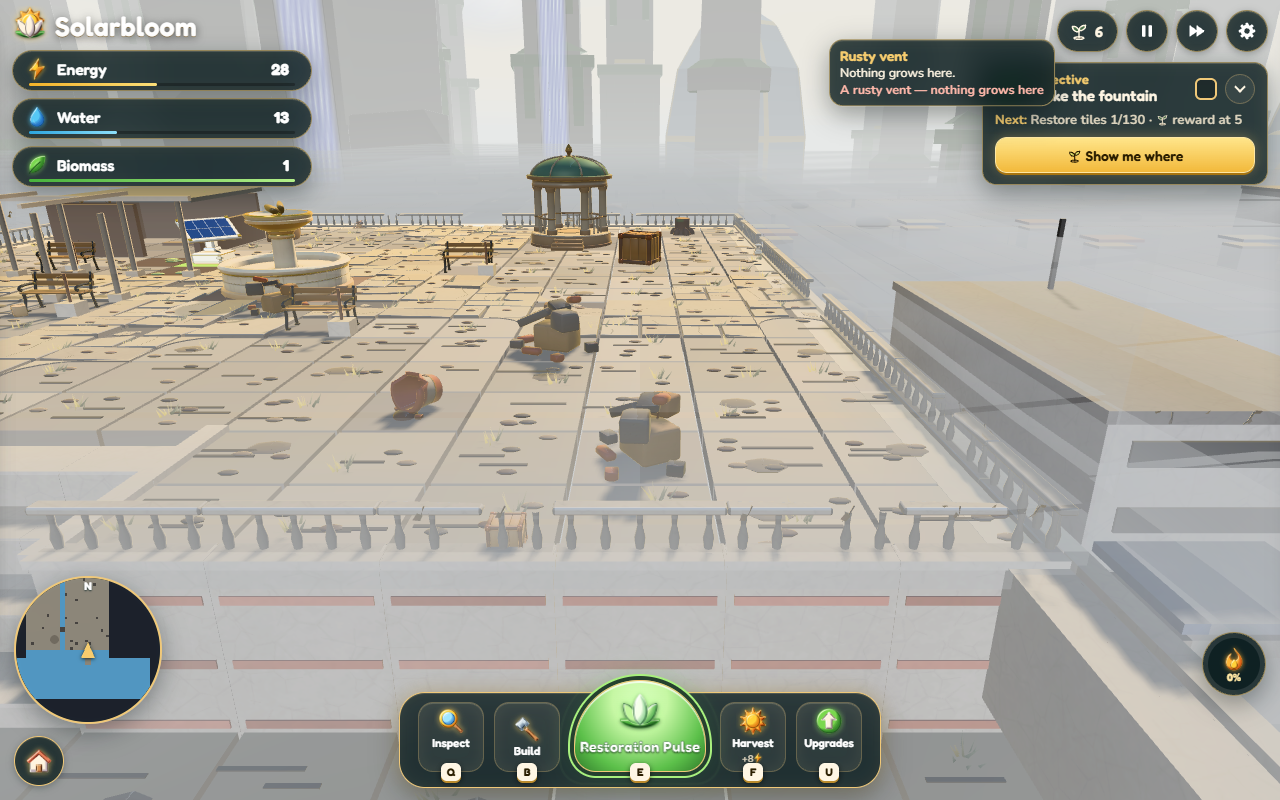
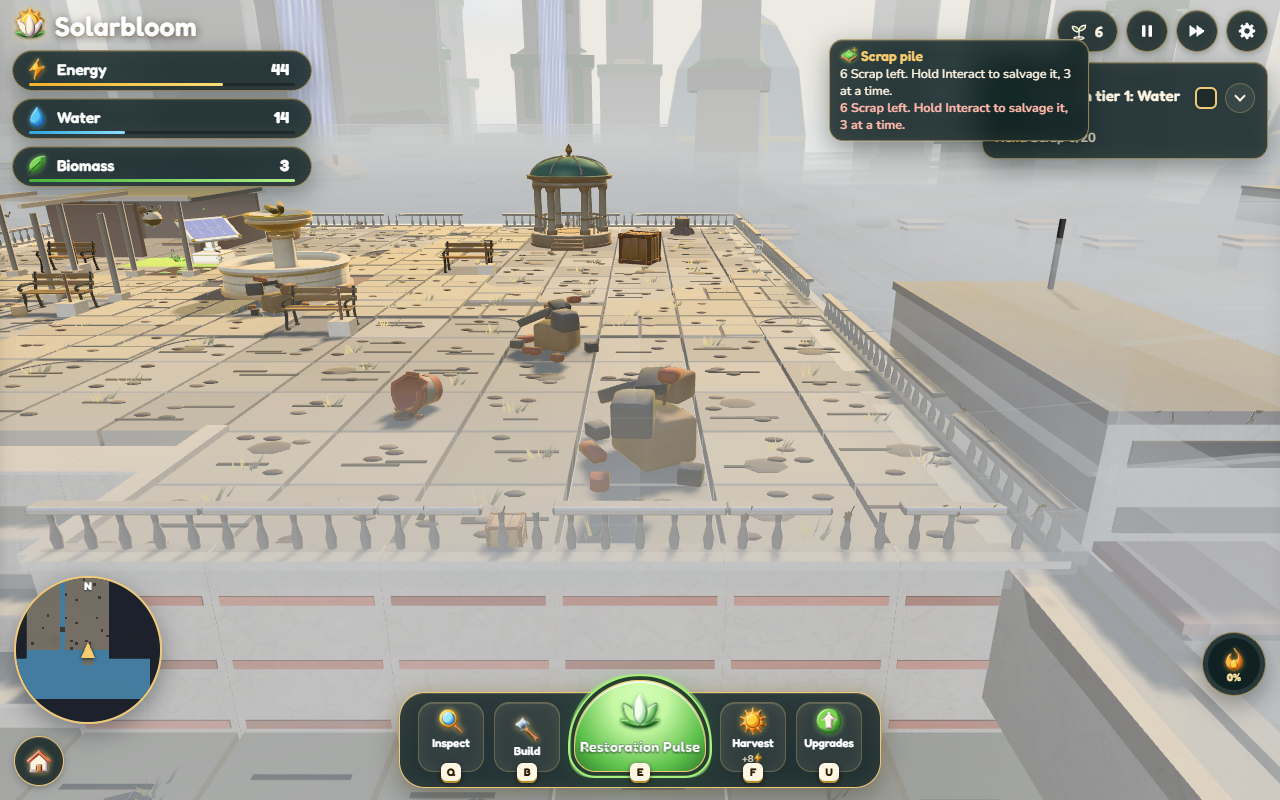
E21: use the Old City's real models (#379)
After rebasing on testing, which now holds all 58 models, every Old City model loads its own file
(oldCityModel prefers it; the marked stand-ins remain only as a fallback). Fitted to the files' real
sizes: salvage piles are one tile across (small, medium, large at 0.65 / 0.85 / 1.05); a gate is one
model over all its cells, fitted to the gate's length and turned along it (barricade 4 m, the bridges
14 m and the skybridge 12 m along +X); the Storage Chest and the Reclaimer at full size; the
Greenhouse, the Observatory and the Spire at half size on their 2 x 2 landmark (the Spire's own
tower and its spiral terraces come with #352); the lookout telescope at 0.65; the jetty turned along
the Landing, now 4 tiles wide to match the model, its deck at the beach. Review shots retaken.

diff --git a/src/rendering/ChunkRenderer.ts b/src/rendering/ChunkRenderer.ts
@@ -339,6 +339,8 @@ export class MeshBuilder {
 
 /** Ground colours per material, dead → alive (Look 2: PALETTE.ground / PALETTE.lawn). */
 const DEAD = PALETTE.ground.dead;
+/** E21.5: the gate models' length in metres (#379), so a gate model can be fitted to its cells. */
+const GATE_LENGTH: Record<string, number> = { barricade: 4, 'bridge-broken': 14, 'bridge-repaired': 14, 'skybridge-collapsed': 12, 'lift-bridge': 6, 'glide-perch': 1.2 };
 const EDGE_DIRS = [[1, 0], [-1, 0], [0, 1], [0, -1]];
 /**
  * Curved paths: the radius of the quarter circle that rounds a path's corner (half a tile: stepped tiles join into
@@ -850,7 +852,9 @@ export class ChunkRenderer {
       if (!pile) return false;
       const size = SALVAGE.units[pile.size];
       const k = Math.max(0, this.sim.salvage.left(pile.id)) / size;
-      const base = pile.size === 'large' ? 1.45 : pile.size === 'medium' ? 1.15 : 0.9;
+      // the salvage-* models (#379) are made one tile across; the older scrap and seed props are smaller
+      const own = pile.model.startsWith('salvage-');
+      const base = own ? (pile.size === 'large' ? 1.05 : pile.size === 'medium' ? 0.85 : 0.65) : pile.size === 'large' ? 1.45 : pile.size === 'medium' ? 1.15 : 0.9;
       const sc = base * (0.45 + 0.55 * k);
       const rot = dhash(t.x, t.z, 213) * Math.PI * 2;
       const model = oldCityModel(pile.model); // the file once it lands, else its stand-in
@@ -862,20 +866,35 @@ export class ChunkRenderer {
       return true;
     }
     if (prop.startsWith('gate:')) {
-      // a rubble barricade (or a broken bridge deck): heaped stone and rubble
-      const r = new VRng(t.variant * 31 + 7);
+      // E21.5: a gate is one model over all its cells (drawn from its first cell), fitted to the gate's length
+      // and turned along its long side: the barricade (4 m), the bridges (14 m, along +X) and the skybridge (12 m)
       const sp = setPieceAt(t.x, t.z);
-      const name = sp?.kind === 'gate' ? GATE_MODELS[sp.gate.kind] : 'barricade';
-      const model = oldCityModel(name); // the file once it lands, else its stand-in
-      if (!model || !this.batch?.add(model, x, y, z, r.range(0, 6.28), 0.9, 0.9, 0.9, true)) b.add('sphere', PALETTE.stone.dark, [x, y + 0.15, z], [0.95, 0.45, 0.9]);
-      if (name === 'barricade' && model !== 'barricade') this.batch?.add('stone-block', x + r.range(-0.25, 0.25), y, z + r.range(-0.25, 0.25), r.range(0, 6.28), 0.5, 0.5, 0.5, true);
+      if (sp?.kind !== 'gate') return true;
+      const g = sp.gate;
+      const xs = g.cells.map((c) => c[0]);
+      const zs = g.cells.map((c) => c[1]);
+      const x0 = Math.min(...xs), x1 = Math.max(...xs), z0 = Math.min(...zs), z1 = Math.max(...zs);
+      if (t.x !== x0 || t.z !== z0) return true;
+      const name = GATE_MODELS[g.kind];
+      const model = oldCityModel(name);
+      const spanX = x1 - x0 + 1;
+      const spanZ = z1 - z0 + 1;
+      const alongX = spanX >= spanZ;
+      const length = GATE_LENGTH[name] ?? 4;
+      // a barricade fills the opening across the avenue; a bridge spans the gap along its length
+      const across = name === 'barricade' ? Math.max(spanX, spanZ) : alongX ? spanX : spanZ;
+      const sc = across / length;
+      const cx = (x0 + x1 + 1) / 2;
+      const cz = (z0 + z1 + 1) / 2;
+      if (!model || !this.batch?.add(model, cx, y, cz, alongX ? 0 : Math.PI / 2, sc, sc, sc, !!model && model === 'barricade' ? true : false))
+        for (const [gx, gz] of g.cells) b.add('sphere', PALETTE.stone.dark, [gx + 0.5, y + 0.15, gz + 0.5], [0.95, 0.45, 0.9]);
       return true;
     }
     if (prop.startsWith('keeper:')) return true;
     if (prop.startsWith('lookout:')) {
       // E21.24: a lookout: its model once it lands, else a bench and a brass telescope on a tripod (stand-in)
       const model = oldCityModel('lookout-telescope');
-      if (model) return !!this.batch?.add(model, x, y, z, 0, 0.8, 0.8, 0.8);
+      if (model) return !!this.batch?.add(model, x, y, z, 0, 0.65, 0.65, 0.65);
       if (!this.batch?.add('bench', x, y, z + 0.2, 0, 0.58, 0.58, 0.58)) b.add('box', PALETTE.wood.mid, [x, y + 0.18, z + 0.2], [0.8, 0.05, 0.3]);
       for (const a of [0, 2.1, 4.2]) b.add('cylinder', PALETTE.metal.iron, [x + Math.cos(a) * 0.12, y + 0.25, z - 0.2 + Math.sin(a) * 0.12], [0.03, 0.5, 0.03]);
       b.add('cylinder', PALETTE.trim.gold ?? PALETTE.metal.iron, [x, y + 0.55, z - 0.2], [0.09, 0.42, 0.09]);
@@ -1438,7 +1457,9 @@ export class ChunkRenderer {
       const J = LANDING.jetty;
       const model = oldCityModel('jetty');
       if (model === 'jetty') {
-        if (t.x === J.x && t.z === J.z) this.batch?.add('jetty', J.x + J.w / 2, h - 0.1, J.z + J.d / 2, 0, 1, 1, 1);
+        // the model (8 m long along +X, 4.2 m from its posts' feet to the deck) turned along the jetty, deck at the beach
+        const sc = J.d / 8;
+        if (t.x === J.x && t.z === J.z) this.batch?.add('jetty', J.x + J.w / 2, h + 0.08 - 4.18 * sc, J.z + J.d / 2, Math.PI / 2, sc, sc, sc);
         return;
       }
       const sea = PALETTE.ground.sea;

diff --git a/src/rendering/MachineVisuals.ts b/src/rendering/MachineVisuals.ts
@@ -81,8 +81,8 @@ export const MACHINE_MODELS: Record<string, [string, number]> = {
   reservoirGarden: ['reservoir-basin', 0.55],
   relay: ['bloom-relay', 0.72],
   // E21: the Storage Chest and the Reclaimer (data/oldcity MODEL_NAMES; a stand-in until the files land)
-  chest: ['storage-chest', 0.66],
-  reclaimer: ['reclaimer', 1.1],
+  chest: ['storage-chest', 1.0],
+  reclaimer: ['reclaimer', 1.0],
 };
 /** The Mother Tree's collar model: its scale (the planter fits the procedural ring, radius 0.85) and planter top (model metres). */
 const MotherCollar = { scale: 1.12, top: 0.84 };
@@ -97,8 +97,9 @@ const LANDMARK_MODELS: Record<string, [string, number]> = {
   // E21.4: the Old City's own landmarks (data/oldcity MODEL_NAMES; a stand-in until the files land)
   sealock: ['lock-gate', 0.62],
   greenhouse: ['great-greenhouse', 0.5],
-  observatory: ['sky-observatory', 0.7],
-  spire: ['solar-spire', 0.9],
+  observatory: ['sky-observatory', 0.5],
+  // the Spire's own tower (15 m on a 6 x 6 footprint) stands with #352's terraces; the landmark core shows it at half size
+  spire: ['solar-spire', 0.5],
 };
 
 const orbOn = () => mat(PALETTE.orbLit, { emissive: PALETTE.coreGlow, emissiveIntensity: 1.6 });

diff --git a/src/data/oldcity.ts b/src/data/oldcity.ts
@@ -481,7 +481,7 @@ export const COAST: Record<'north' | 'south' | 'east' | 'west', { kind: CoastKin
  * park's south steps, facing north toward the park (the boat arrival cinematic comes with #353).
  */
 export const LANDING = {
-  jetty: { x: 7, z: 45, w: 2, d: 6 } as CellRect,
+  jetty: { x: 6, z: 45, w: 4, d: 6 } as CellRect,
   spawn: [8.5, 45.5] as [number, number],
   /** radians, 0 = +z (south): π faces north, up the beach to the park */
   facing: Math.PI,
